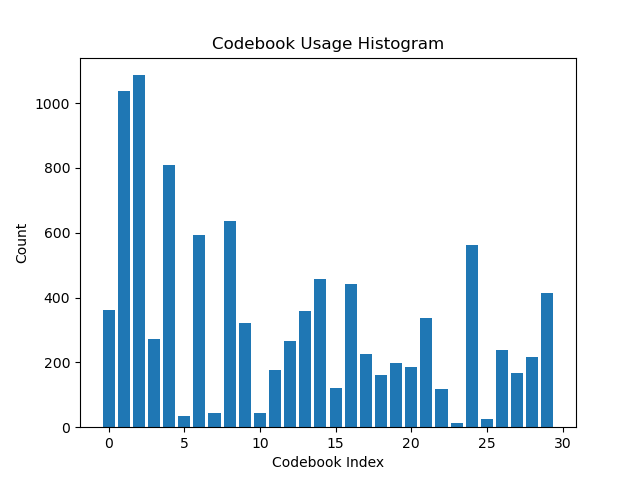
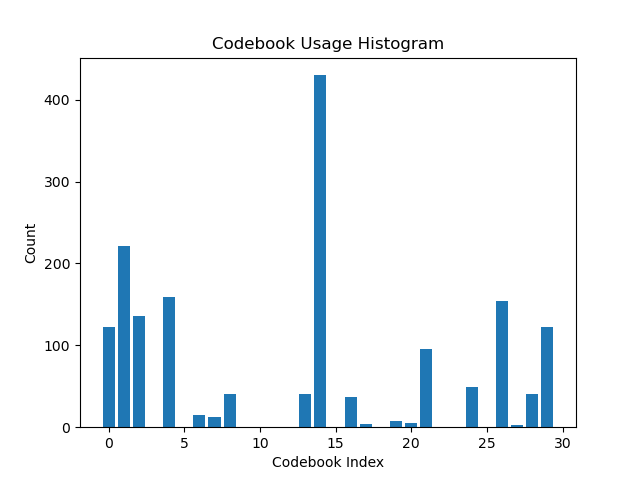
updated

diff --git a/src/loss.py b/src/loss.py
@@ -18,7 +18,7 @@ class Loss:
         rec_loss *= self.config["recon_loss_weight"]
         
         # commitment loss
-        commit_loss = output["commitment_loss"] * self.config["commit_loss_weight"]
+        commit_loss = output["commitment_loss"] * self.config["commit_loss_weight"] 
         
         # smoothness loss :- down_out shifted by 1
         smooth_loss = self.mse_loss(output["down_out"][:,:-1,:], output["down_out"][:,1:,:])
@@ -42,7 +42,7 @@ class Loss:
         #     loss_D = real_loss + fake_loss
 
         print(f"step/total: {step}/{total_steps} rec_loss: {rec_loss}, commit_loss: {commit_loss}, smooth_loss: {smooth_loss}")
-        total_loss = rec_loss + commit_loss + smooth_loss 
+        total_loss = rec_loss # + commit_loss + smooth_loss 
         
         return  total_loss
         
